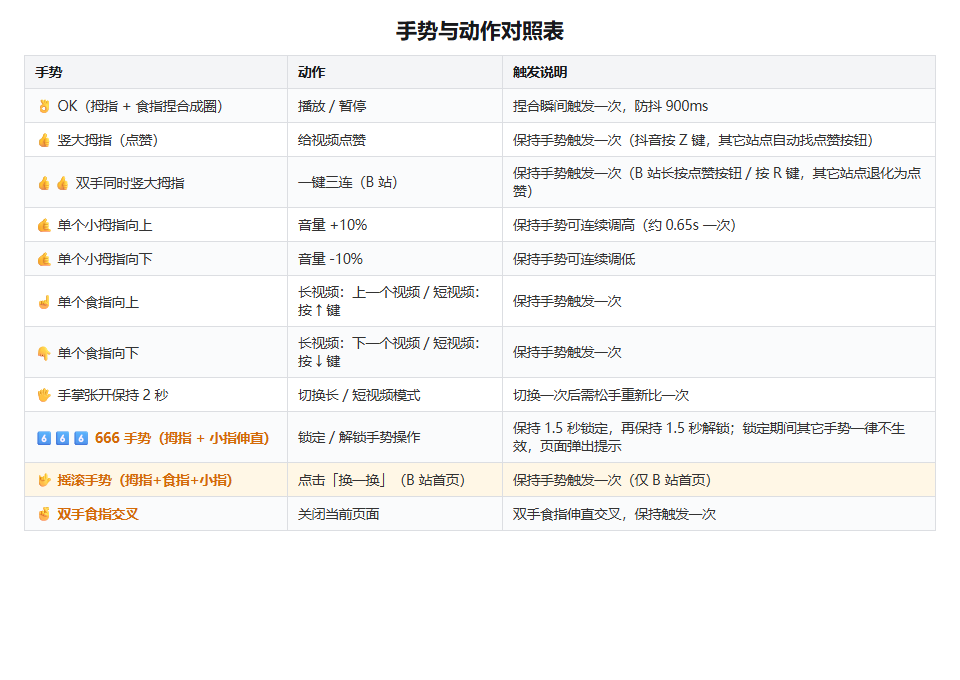
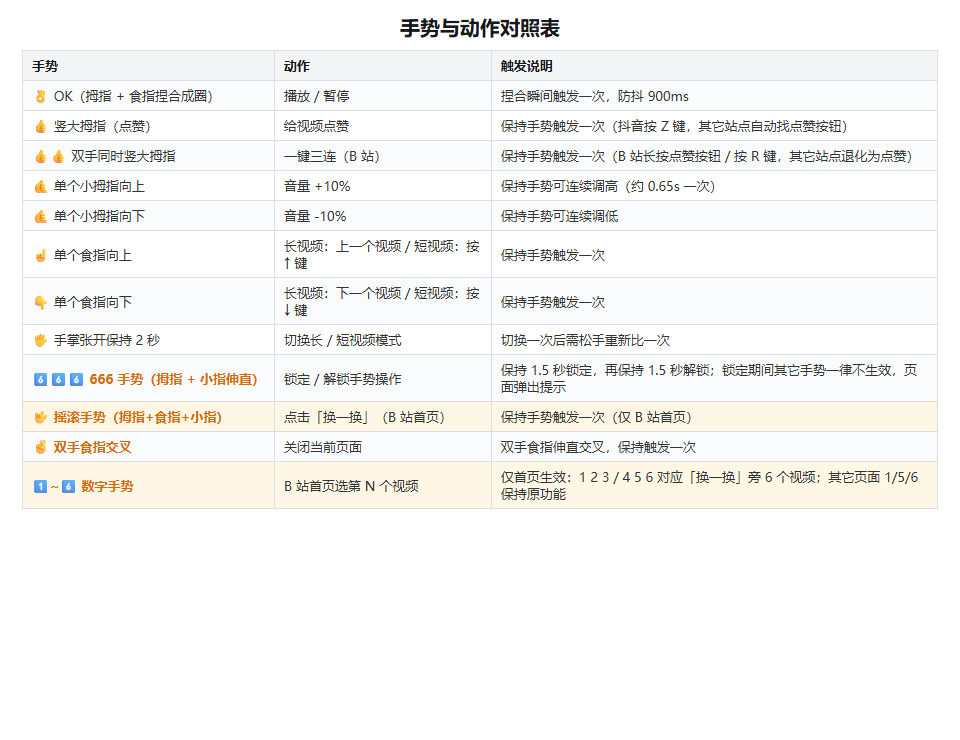
feat: B站首页数字手势1-6选视频（新增数字2/3/4识别，首页数字优先，非首页保留原功能）

Changed region(s): [[0.0, 0.0, 1.0, 0.7721], [0.0312, 0.0618, 0.25, 0.4632]]

diff --git a/content.js b/content.js
@@ -214,6 +214,34 @@
     return { status: 'ok' };
   }
 
+  // 是否 B 站首页（数字手势只在首页生效）
+  function isBiliHome() {
+    return location.hostname.includes('bilibili.com') &&
+      (location.pathname === '/' || location.pathname === '/index.html');
+  }
+
+  // B 站首页“换一换”旁边的推荐卡片（2 行 3 列，DOM 顺序即 1~6）
+  function getBiliHomeCards() {
+    const cards = [];
+    for (const a of document.querySelectorAll('.bili-video-card a[href*="/video/"]')) {
+      const card = a.closest('.bili-video-card');
+      if (card && cards.indexOf(card) === -1) cards.push(card);
+    }
+    return cards;
+  }
+
+  // 滚动到元素中心并通知后台用 CDP 原生点击（B 站只响应真实鼠标事件）
+  function nativeClickAt(el, toast) {
+    el.scrollIntoView({ block: 'center' });
+    setTimeout(() => {
+      const rect = el.getBoundingClientRect();
+      const x = Math.round(rect.left + rect.width / 2);
+      const y = Math.round(rect.top + rect.height / 2);
+      chrome.runtime.sendMessage({ type: 'CLICK_AT', x, y }).catch(() => {});
+    }, 400);
+    return { status: 'ok', toast };
+  }
+
   // 一键三连（B 站）：长按点赞按钮 → 快捷键 R → 找不到就退化为点赞
   function tripleLike() {
     const isBili = location.hostname.includes('bilibili.com');
@@ -471,6 +499,9 @@
     '双手点赞': '👍👍',
     '🤟': '🤟',
     '双手食指交叉': '🤞',
+    '数字2': '2⃣',
+    '数字3': '3⃣',
+    '数字4': '4⃣',
     '手掌张开': '🖐',
     '666': '6⃣6⃣6⃣',
     '🔒 已锁定': '🔒',
@@ -973,19 +1004,23 @@
         const rollBtns = document.querySelectorAll('button.roll-btn, [class*="roll-btn"]');
         for (const btn of rollBtns) {
           if (btn.textContent && btn.textContent.indexOf('换一换') !== -1) {
-            // B 站“换一换”只响应真实鼠标事件（isTrusted），合成事件无效。
-            // 滚动到按钮、取中心坐标，交给后台用 CDP 原生点击。
-            btn.scrollIntoView({ block: 'center' });
-            setTimeout(() => {
-              const rect = btn.getBoundingClientRect();
-              const x = Math.round(rect.left + rect.width / 2);
-              const y = Math.round(rect.top + rect.height / 2);
-              chrome.runtime.sendMessage({ type: 'CLICK_AT', x, y }).catch(() => {});
-            }, 400);
-            return { status: 'ok', toast: '🔄 换一换' };
+            return nativeClickAt(btn, '🔄 换一换');
           }
         }
         return { status: 'error', message: '未找到“换一换”按钮（需在 B 站首页使用）' };
+      }
+      case 'num_1': case 'num_2': case 'num_3':
+      case 'num_4': case 'num_5': case 'num_6': {
+        // 数字手势（1~6）：B 站首页选“换一换”旁边的第 N 个视频
+        const n = parseInt(action.slice(4), 10);
+        if (!isBiliHome()) {
+          return { status: 'error', message: '数字手势仅在 B 站首页可用' };
+        }
+        const card = getBiliHomeCards()[n - 1];
+        if (!card) {
+          return { status: 'error', message: '未找到第 ' + n + ' 个视频卡片' };
+        }
+        return nativeClickAt(card, '▶ 打开第 ' + n + ' 个视频');
       }
       case 'close_tab': {
         // 双手食指交叉：关闭当前页面（由后台 Service Worker 执行）
@@ -1055,4 +1090,21 @@
     });
     return true; // 异步响应
   });
+
+  // ---------- 页面类型上报（数字手势需要知道是否 B 站首页）----------
+  function currentBiliHome() {
+    return location.hostname.includes('bilibili.com') &&
+      (location.pathname === '/' || location.pathname === '/index.html');
+  }
+  let lastReportedHome = null;
+  function reportPageInfo() {
+    const isHome = currentBiliHome();
+    if (isHome !== lastReportedHome) {
+      lastReportedHome = isHome;
+      chrome.runtime.sendMessage({ type: 'PAGE_INFO', isBiliHome: isHome }).catch(() => {});
+    }
+  }
+  reportPageInfo();
+  // SPA 内部跳转时 URL 会变，轮询检测变化后重新上报
+  setInterval(reportPageInfo, 3000);
 })();

diff --git a/offscreen.js b/offscreen.js
@@ -40,6 +40,7 @@ const state = {
   handFoundFrames: 0,    // 连续检测到手的帧数（显示防抖用）
   handLostFrames: 0,     // 连续没检测到手的帧数（显示防抖用）
   shortVideoMode: false, // 短视频模式（默认长视频模式）
+  isBiliHome: false,     // 当前控制页是否为 B 站首页（数字手势 1~6 只在首页生效）
   palmHoldStart: null,   // 手掌张开保持计时的起点
   palmHoldTriggered: false, // 本次保持是否已触发过模式切换
   phoneLocked: false,    // 电话手势锁定：锁定后不执行任何手势操作
@@ -75,6 +76,7 @@ chrome.runtime.onMessage.addListener((message, sender, sendResponse) => {
     case 'OFFSCREEN_START':
       if (message.tabId) state.targetTabId = message.tabId;
       state.controlOn = true;
+      if (typeof message.isBiliHome === 'boolean') state.isBiliHome = message.isBiliHome;
       // 离屏文档不能直接访问 chrome.storage，模式由弹窗/悬浮窗随消息传入
       if (typeof message.shortVideoMode === 'boolean') {
         state.shortVideoMode = message.shortVideoMode;
@@ -99,6 +101,13 @@ chrome.runtime.onMessage.addListener((message, sender, sendResponse) => {
       if (typeof message.debounceMs === 'number') state.debounceMs = message.debounceMs;
       if (typeof message.volumeRepeatMs === 'number') state.volumeRepeatMs = message.volumeRepeatMs;
       notify();
+      sendResponse({ ok: true });
+      break;
+    case 'PAGE_INFO_SET':
+      // 页面类型变化（是否 B 站首页）实时同步
+      if (typeof message.isBiliHome === 'boolean') {
+        state.isBiliHome = message.isBiliHome;
+      }
       sendResponse({ ok: true });
       break;
     case 'OFFSCREEN_GET_STATUS':
@@ -347,6 +356,16 @@ function onHandsResults(results) {
 
   // 666 手势：保持 1.5 秒锁定 / 解锁（锁定期间其它手势一律不执行操作）
   if (pose.name === '666') {
+    // B 站首页：666 即数字 6，选第 6 个视频（快速触发，不等锁定保持）
+    if (state.isBiliHome) {
+      state.numFrames = (state.numFrames || 0) + 1;
+      if (state.numFrames >= 3 && now - state.lastActionTime >= state.debounceMs) {
+        state.lastActionTime = now;
+        state.numFrames = 0;
+        triggerAction('num_6', pose.name);
+      }
+      return;
+    }
     if (state.phoneHoldStart === null) {
       state.phoneHoldStart = now;
       setGesture('666', '保持 666 手势 1.5 秒' + (state.phoneLocked ? '解锁' : '锁定') + '…');
@@ -406,6 +425,34 @@ function onHandsResults(results) {
     }
   }
   state.crossFrames = 0;
+
+  // 数字手势 1~6：B 站首页选“换一换”旁边的第 N 个视频
+  //（1=食指、2=V、3=三指、4=四指、5=手掌张开、6=666）
+  const numMap = { '食指向上': 1, '食指向下': 1, '数字2': 2, '数字3': 3, '数字4': 4, '手掌张开': 5, '666': 6 };
+  const num = numMap[pose.name];
+  if (num) {
+    if (state.isBiliHome) {
+      // 首页：数字手势优先选视频（666 锁定、手掌切模式在首页让位）
+      state.numFrames = (state.numFrames || 0) + 1;
+      if (state.numFrames >= 3 && now - state.lastActionTime >= state.debounceMs) {
+        state.lastActionTime = now;
+        state.numFrames = 0;
+        triggerAction('num_' + num, pose.name);
+      }
+      return;
+    }
+    // 非首页：2/3/4 没有其它用途，提示一下；1/5/6 走下面的原有逻辑
+    if (num === 2 || num === 3 || num === 4) {
+      state.numFrames = (state.numFrames || 0) + 1;
+      if (state.numFrames >= 3 && now - state.lastActionTime >= state.debounceMs) {
+        state.lastActionTime = now;
+        state.numFrames = 0;
+        triggerAction('num_' + num, pose.name);
+      }
+      return;
+    }
+  }
+  state.numFrames = 0;
 
   // OK：捏合跳变触发播放/暂停
   if (pose.ok) {

diff --git a/float.js b/float.js
@@ -69,6 +69,7 @@ const state = {
   handFoundFrames: 0,    // 连续检测到手的帧数（显示防抖用）
   handLostFrames: 0,     // 连续没检测到手的帧数（显示防抖用）
   shortVideoMode: false, // 短视频模式（默认长视频模式）
+  isBiliHome: false,     // 当前控制页是否为 B 站首页（数字手势 1~6 只在首页生效）
   palmHoldStart: null,   // 手掌张开保持计时的起点
   palmHoldTriggered: false, // 本次保持是否已触发过模式切换
   phoneLocked: false,    // 电话手势锁定：锁定后不执行任何手势操作
@@ -96,6 +97,9 @@ const GESTURE_EMOJI = {
   '双手点赞': '👍👍',
   '🤟': '🤟',
   '双手食指交叉': '🤞',
+  '数字2': '2⃣',
+  '数字3': '3⃣',
+  '数字4': '4⃣',
   '食指向下': '👇',
   '握拳': '✊',
   '手掌张开': '🖐',
@@ -285,6 +289,13 @@ function applyPreviewVisibility() {
 // ============================================================
 function onRuntimeMessage(message) {
   if (!message || typeof message.type !== 'string') return;
+  // 页面类型（是否 B 站首页）实时同步，两种引擎模式都需要
+  if (message.type === 'PAGE_INFO_SET') {
+    if (typeof message.isBiliHome === 'boolean') {
+      state.isBiliHome = message.isBiliHome;
+    }
+    return;
+  }
   // 页面内识别运行期间，忽略后台引擎的状态（避免互相覆盖）
   if (state.recRunning) return;
   if (message.type === 'OFFSCREEN_UPDATE') {
@@ -718,6 +729,16 @@ function handleRecResult(result) {
 
   // 666 手势：保持 1.5 秒锁定 / 解锁（锁定期间其它手势一律不执行操作）
   if (pose.name === '666') {
+    // B 站首页：666 即数字 6，选第 6 个视频（快速触发，不等锁定保持）
+    if (state.isBiliHome) {
+      state.numFrames = (state.numFrames || 0) + 1;
+      if (state.numFrames >= 3 && now - state.lastActionTime >= state.debounceMs) {
+        state.lastActionTime = now;
+        state.numFrames = 0;
+        sendAction('num_6', pose.name);
+      }
+      return;
+    }
     if (state.phoneHoldStart === null) {
       state.phoneHoldStart = now;
       setGestureLocal('666', '保持 666 手势 1.5 秒' + (state.phoneLocked ? '解锁' : '锁定') + '…');
@@ -777,6 +798,34 @@ function handleRecResult(result) {
     }
   }
   state.crossFrames = 0;
+
+  // 数字手势 1~6：B 站首页选“换一换”旁边的第 N 个视频
+  //（1=食指、2=V、3=三指、4=四指、5=手掌张开、6=666）
+  const numMap = { '食指向上': 1, '食指向下': 1, '数字2': 2, '数字3': 3, '数字4': 4, '手掌张开': 5, '666': 6 };
+  const num = numMap[pose.name];
+  if (num) {
+    if (state.isBiliHome) {
+      // 首页：数字手势优先选视频（666 锁定、手掌切模式在首页让位）
+      state.numFrames = (state.numFrames || 0) + 1;
+      if (state.numFrames >= 3 && now - state.lastActionTime >= state.debounceMs) {
+        state.lastActionTime = now;
+        state.numFrames = 0;
+        sendAction('num_' + num, pose.name);
+      }
+      return;
+    }
+    // 非首页：2/3/4 没有其它用途，提示一下；1/5/6 走下面的原有逻辑
+    if (num === 2 || num === 3 || num === 4) {
+      state.numFrames = (state.numFrames || 0) + 1;
+      if (state.numFrames >= 3 && now - state.lastActionTime >= state.debounceMs) {
+        state.lastActionTime = now;
+        state.numFrames = 0;
+        sendAction('num_' + num, pose.name);
+      }
+      return;
+    }
+  }
+  state.numFrames = 0;
 
   // OK：捏合跳变触发播放/暂停
   if (pose.ok) {

diff --git a/gesture.js b/gesture.js
@@ -143,6 +143,23 @@ const GestureMath = (() => {
       lm[20].y < lm[17].y - 0.008;
     if (rockPose) return { name: '🤟', ok: false, detail: '拇指+食指+小指伸直（摇滚）' };
 
+    // 数字 2（V）：食指+中指伸直，无名指+小指收着
+    const twoPose = idx > EXT_STRONG && mid > EXT_STRONG &&
+      ring < EXT_WEAK && pinky < EXT_WEAK &&
+      idx > ring * 1.2 && mid > ring * 1.2 && idx > pinky * 1.2 && mid > pinky * 1.2;
+    if (twoPose) return { name: '数字2', ok: false, detail: '食指+中指伸出（数字 2）' };
+
+    // 数字 3：食指+中指+无名指伸直，小指收着
+    const threePose = idx > EXT_STRONG && mid > EXT_STRONG && ring > EXT_STRONG &&
+      pinky < EXT_WEAK &&
+      idx > pinky * 1.2 && mid > pinky * 1.2 && ring > pinky * 1.2;
+    if (threePose) return { name: '数字3', ok: false, detail: '食中无名指伸出（数字 3）' };
+
+    // 数字 4：四指伸直、拇指收着（与手掌张开的区别：手掌张开拇指也伸）
+    const fourPose = idx > EXT_STRONG && mid > EXT_STRONG && ring > EXT_STRONG && pinky > EXT_STRONG &&
+      thumb < EXT_WEAK;
+    if (fourPose) return { name: '数字4', ok: false, detail: '四指伸出、拇指收（数字 4）' };
+
     // 单个小拇指：小指伸直，其余三指都收着。
     // 判定放宽：允许食指/中指/无名指只是“半弯”（不要求完全弯曲），
     // 只要它们都没伸直、且明显不如小指伸得开，就算小拇指。

diff --git a/background.js b/background.js
@@ -12,6 +12,8 @@
 
 // 当前手势控制作用的标签页（悬浮面板 / 弹窗启动后台识别时记录）
 let controlTabId = null;
+// 当前控制页是否为 B 站首页（数字手势只在首页生效）
+let currentIsBiliHome = false;
 
 // ---------- 默认设置 ----------
 const DEFAULT_SETTINGS = {
@@ -150,6 +152,14 @@ chrome.runtime.onMessage.addListener((message, sender, sendResponse) => {
     return true; // 异步响应
   }
 
+  // 内容脚本上报页面类型（是否 B 站首页），存下来并广播给识别引擎
+  if (message.type === 'PAGE_INFO') {
+    currentIsBiliHome = !!message.isBiliHome;
+    chrome.runtime.sendMessage({ type: 'PAGE_INFO_SET', isBiliHome: currentIsBiliHome }).catch(() => {});
+    sendResponse({ ok: true });
+    return;
+  }
+
   // 离屏文档无法直接访问 chrome.storage，由后台代为写入短视频模式状态
   if (message.type === 'SHORT_VIDEO_MODE_SET') {
     chrome.storage.local.set({ shortVideoMode: !!message.value });
@@ -172,6 +182,7 @@ chrome.runtime.onMessage.addListener((message, sender, sendResponse) => {
           chrome.runtime.sendMessage({
             type: 'OFFSCREEN_START',
             tabId: controlTabId,
+            isBiliHome: currentIsBiliHome,
             shortVideoMode: message.shortVideoMode,
             volumeStep: message.volumeStep,
             debounceMs: message.debounceMs,

diff --git a/popup.js b/popup.js
@@ -53,6 +53,9 @@ const GESTURE_EMOJI = {
   '双手点赞': '👍👍',
   '🤟': '🤟',
   '双手食指交叉': '🤞',
+  '数字2': '2⃣',
+  '数字3': '3⃣',
+  '数字4': '4⃣',
   '食指向下': '👇',
   '握拳': '✊',
   '手掌张开': '🖐',

diff --git a/README.md b/README.md
@@ -45,6 +45,7 @@
 - **长 / 短视频双模式**：手掌张开保持 2 秒一键切换；短视频模式下食指上下直接模拟键盘 ↑/↓ 切视频，兼容抖音网页版等推荐流
 - **666 手势锁定**：比出 666 手势（拇指 + 小指伸直）保持 1.5 秒，引擎进入锁定状态，期间任何手势都不会操作页面；再比一次 666 手势 1.5 秒即可解锁
 - **B 站刷视频**：🤟（拇指+食指+小指）一键点击首页「换一换」刷新推荐流；双手食指交叉直接关闭当前页面
+- **B 站首页数字选视频**：在 B 站首页比出数字 1~6 手势，直接打开「换一换」旁边对应位置的视频（1 2 3 / 4 5 6）
 - 页面操作成功后会弹出轻量提示浮层（Shadow DOM 隔离，不污染页面样式）
 - 权限最小化：仅使用 `activeTab + scripting + storage`，不申请全站权限
 
@@ -63,6 +64,7 @@
 | 6⃣6⃣6⃣ 666 手势（拇指 + 小指伸直） | 锁定 / 解锁手势操作 | 保持 1.5 秒锁定（期间其它手势一律不生效，页面弹出锁定提示），再保持 1.5 秒解锁 |
 | 🤟 摇滚手势（拇指+食指+小指） | 点击「换一换」（B 站首页） | 保持手势触发一次（仅 B 站首页） |
 | 🤞 双手食指交叉 | 关闭当前页面 | 双手食指伸直交叉保持触发一次 |
+| 1⃣ 数字 1（食指）/ 2⃣（食指+中指）/ 3⃣（三指）/ 4⃣（四指）/ 5⃣（五指）/ 6⃣（拇指+小指） | B 站首页选第 N 个视频 | 仅 B 站首页生效（1 2 3 / 4 5 6 对应换一换旁 6 个视频）；其它页面 1/5/6 保持原有功能 |
 > 注意：OK 手势不是靠“声音”识别（浏览器无法安全监听麦克风），而是靠“拇指尖与食指尖捏合成圈”的动作来识别。
 
 **长 / 短视频模式**：
